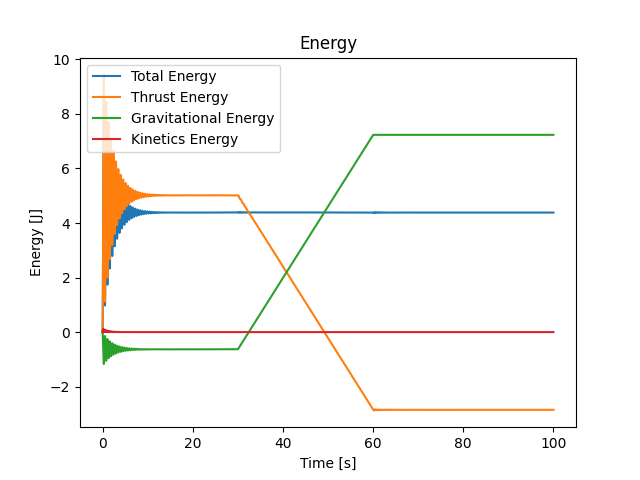
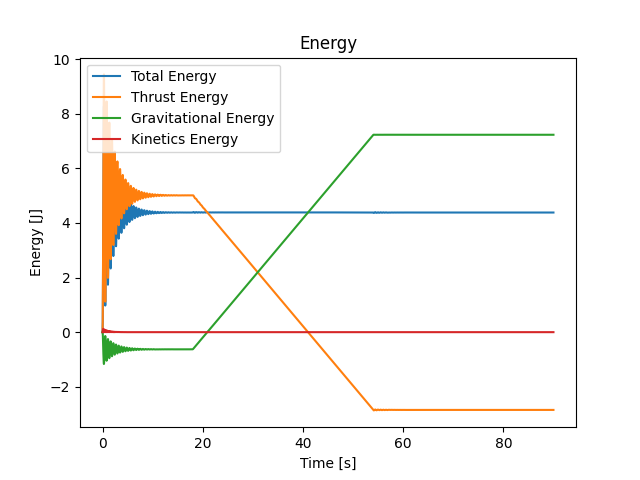
Simulation 08/12

diff --git a/scripts/variables.py b/scripts/variables.py
@@ -1,6 +1,5 @@
 from math import pi
 
-
 # --- Constants ---
 inertia = 0.5202  # [kg * m**2] Inertia
 g = 9.81  # [m / s**2] Gravitational acceleration
@@ -8,12 +7,11 @@ damping = 1.2  # [#] Damping of the system
 to_degrees = 180 / pi  # [#] coefficient to transform rad in degrees
 to_radians = pi / 180  # [#] coefficient to transform degrees in rad
 
-
 # --- Barge ---
 barge_x = 0.55  # [m] Barge length
 barge_y = 0.60  # [m] Barge width
 barge_z = 0.17  # [m] Barge height
-barge_mass = 4  # [kg] Barge mass
+barge_mass = 4.3  # [kg] Barge mass
 barge_cg_values = (-0.095, 0.140)  # [m] Center of gravity of the barge with the wood planks
 
 # --- Crane --- (Grapple, syringes and 3D printed parts are also taken into account)
@@ -26,14 +24,6 @@ crane_cg_x_values = (0.069, 0.458)  # [m] Values along the x-axis of the center 
 # initial, final) (0.069, 0.248)
 crane_cg_z_values = (0.251, 0.257)  # [m] Values along the y-axis of the center of gravity of all
 # components (initial, final)
-
-# -- Test with difference mass --
-# test_cane = (mass, (cg_x_ini, cg_x_final), (cg_z_init, cg_z_final))
-test_crane_100 = (1.83, (0.100, 0.297), (0.267, 0.235))
-test_crane_200 = (1.93, (0.117, 0.321), (0.268, 0.240))
-test_crane_500 = (2.23, (0.156, 0.378), (0.271, 0.253))
-test_crane_700 = (2.43, (0.177, 0.408), (0.272, 0.259))
-
 
 # --- Counterweight ---
 """ COORDINATES SYSTEM

diff --git a/scripts/calculations.py b/scripts/calculations.py
@@ -13,10 +13,10 @@ The origin is positioned in the middle of the barge along the X and Y axis and a
 
 # --- Simulation parameters ---
 step = 0.01  # [s] steps (dt)
-end = 100  # [s] duration
+end = 90  # [s] duration
 theta_0 = 0  # [rad] angle of inclination at t == 0
 omega_0 = 0  # [rad / s] angular velocity at t == 0
-begin_motion = 30  # [%] begin of motion (elapsed time)
+begin_motion = 20  # [%] begin of motion (elapsed time)
 end_motion = 60  # [%] end of motion (elapsed time)
 
 # Lists with numpy
